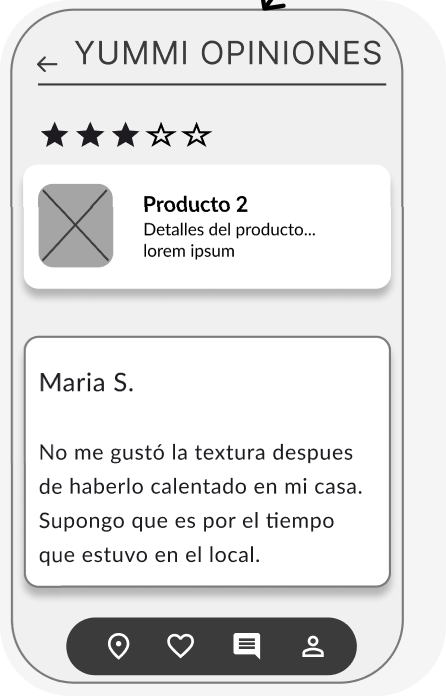
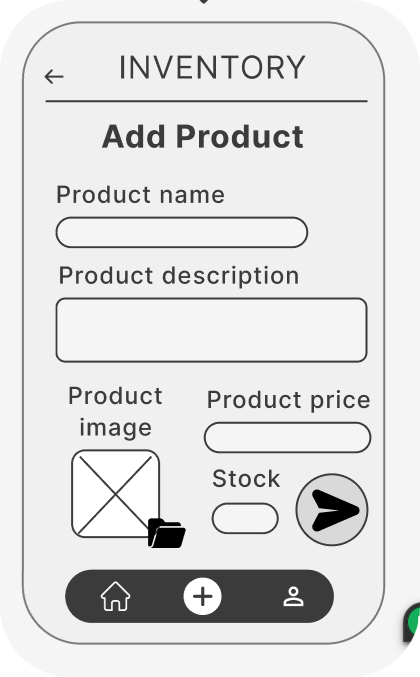
ux and img names correction

Changed region(s): [[0.0, 0.0, 0.9286, 0.9926], [0.9286, 0.8685, 1.0, 0.9616]]

diff --git a/doc/design/diagrams.md b/doc/design/diagrams.md
@@ -7,19 +7,19 @@
 <H2>DIAGRAMA DE SECUENCIA<H2>
 <H3>USUARIO HACER PEDIDO Y PAGAR<H3>
 
-![USUARIO HACER PEDIDO Y PAGAR](<img/Untitled diagram _ Mermaid Chart-2025-09-18-211658.png>)
+![USUARIO HACER PEDIDO Y PAGAR](<img/hacer_pedido_pagar.png>)
 <H3>USUARIO VER FAV Y OPINIONES<H3>
 
-![USUARIO VER FAV Y OPINIONES](<img/Untitled diagram _ Mermaid Chart-2025-09-18-211939.png>)
+![USUARIO VER FAV Y OPINIONES](<img/ver_fav_opiniones.png>)
 <H3>RESTAURANTES GESTIONAR PRODUCTOS<H3>
 
-![RESTAURANTES GESTIONAR PRODUCTOS](<img/Untitled diagram _ Mermaid Chart-2025-09-18-212140.png>)
+![RESTAURANTES GESTIONAR PRODUCTOS](<img/gestion_productos.png>)
 <H3>VER PERFIL/ EDITAR PERFIL<H3>
 
-![VER PERFIL/ EDITAR PERFIL](<img/Untitled diagram _ Mermaid Chart-2025-09-18-212350.png>)
+![VER PERFIL/ EDITAR PERFIL](<img/ver_editar_perfil.png>)
 <H2>DIAGRAMA MODELO RELACIONAL<H2>
 
-![MODELO RELACIONAL](<img/Imagen de WhatsApp 2025-09-18 a las 21.49.47_f8d3e156.jpg>)
+![MODELO RELACIONAL](<img/diagrama_relacional.jpg>)
 <H2>DIAGRAMA DE COMPONENTES<h2>
 
-![COMPONENTES](<img/Imagen de WhatsApp 2025-09-18 a las 22.02.47_43d18aae.jpg>)
+![COMPONENTES](<img/diagrama_componentes.jpg>)